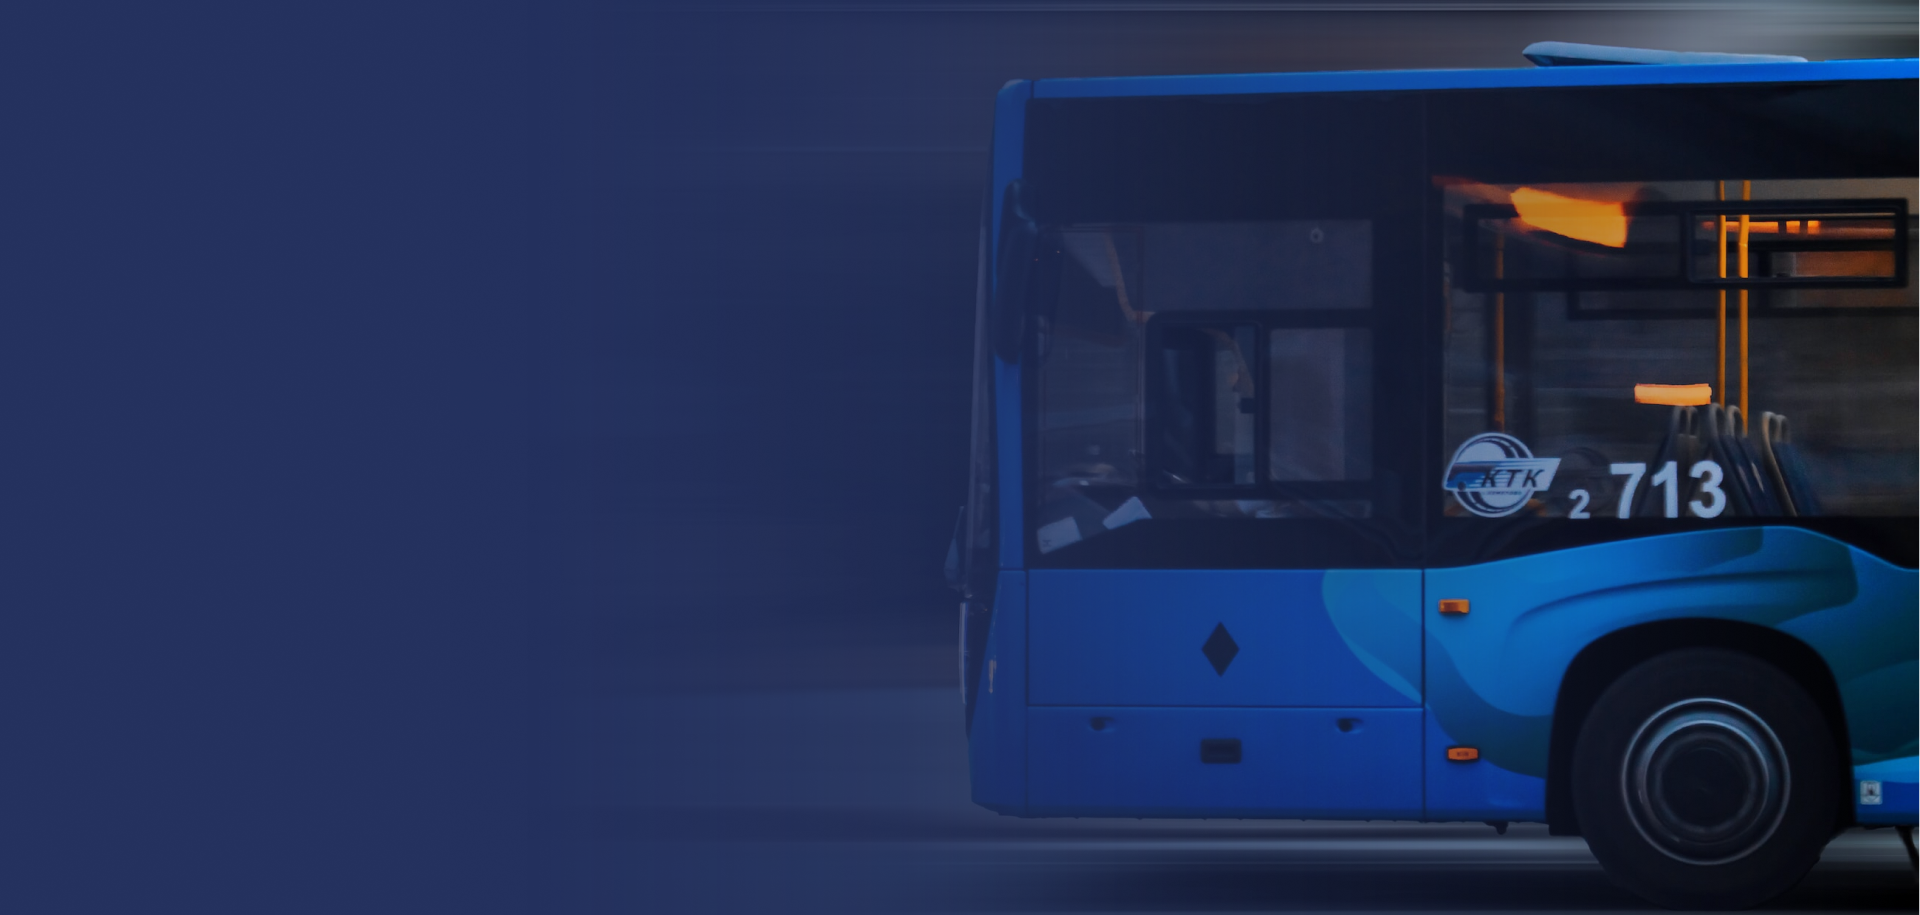
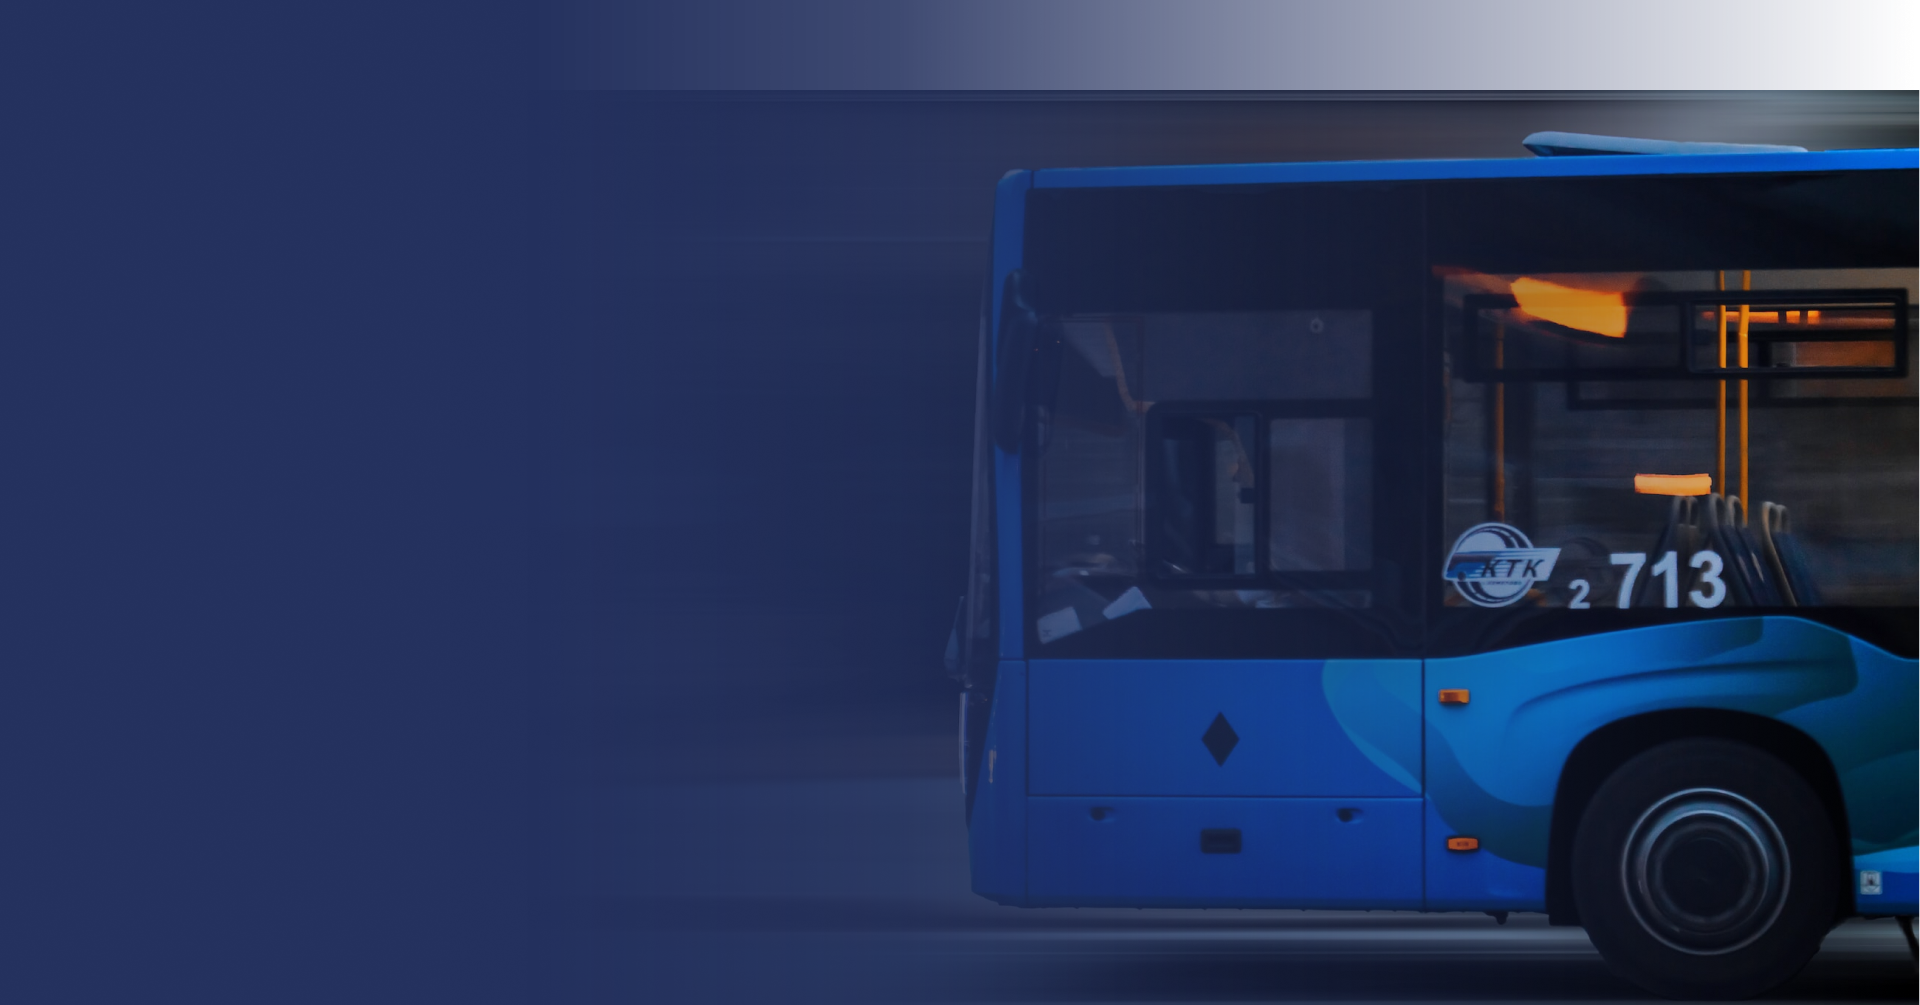
Landing page css and admin login, signup headers

diff --git a/BusSched/public/assets/css/landing.css b/BusSched/public/assets/css/landing.css
@@ -1,0 +1,150 @@
+body{
+    box-sizing: border-box;
+    background-image: url("../images/bg-home-1.png");
+    background-repeat: no-repeat;
+    background-position: top;
+    background-size: cover;
+    background-position: 0px 90px;
+
+    font-family: 'Outfit';
+    font-size: 20px;
+    margin: 0;
+}
+
+
+h1{
+    color: aliceblue;
+    margin-bottom: 20px;
+}
+
+label{
+    color: aliceblue;
+}
+
+input[type="text"]{
+    width: 100%;
+    height: 71px;
+    font-size: 20px;
+    padding-left: 20px;
+    border-radius: 5px;
+}
+
+input[type="text"]::placeholder{
+    font-family: Outfit;
+    font-size: 20px;
+    color: #7C839E;
+}
+/* input[type="button"]{
+    float: right;
+    width: 120px;
+    background-color: #FD6002;
+    border: none;
+} */
+
+li{
+    list-style: none;
+}
+
+a{
+    text-decoration: none;
+}
+button:hover {opacity: 0.6}
+
+.button-orange {
+    background-color: #f4511e;
+    border: none;
+    border-radius: 5px;
+    color: white;
+    padding: 16px 32px;
+    text-align: center;
+    font-family: 'Outfit';
+    font-size: 16px;
+    font-weight: bold;
+    margin-top: 10px;
+    margin: 0px;
+    opacity: 1;
+    transition: 0.3s;
+    display: inline-block;
+    text-decoration: none;
+    width: 100%;
+}
+
+.find_bus{
+    position: absolute;
+    top: 91px;
+    display: flex;
+    flex-direction: column;
+    padding: 100px;
+    float: left;
+}
+
+.find_bus input, h1{
+    padding: 10px;
+    margin-bottom: 15px;
+    width: 100%;
+}
+
+/* nav bar */
+.navbar {
+    display: flex;
+    align-items: center;
+    justify-content: space-between;
+    padding-left: 20px;
+    padding-right: 20px;
+    background-color: black;
+    color: #fff;
+    height: 90px;    
+}
+
+.nav-links a {
+    color: #fff;
+}
+
+.menu {
+    display: flex;
+    gap: 1em;
+    font-size: 18px;
+}
+    
+.menu li {
+    padding: 5px 14px;
+}
+
+.logo_white{
+    color: white;
+    text-decoration: none;
+}
+
+
+/* grid */
+.grid-container {
+    display: grid;
+    justify-content: center;
+
+    /* justify-items: center; */
+    align-items: center;
+    /* justify-content: space-around; */
+    align-content: center;
+    /* height: inherit; */
+    grid-template-columns: 1fr 2fr;
+    grid-auto-rows: minmax(150px, auto);
+    grid-gap: 10px;
+    /* background-color: #2196F3; */
+    padding: 10px;
+    margin: 100px;
+    margin-left: 190px;
+    margin-right: 190px;
+
+    /* grid-template-areas: 
+        "header header"
+        "main main"; */
+}
+
+/* .grid-item-1{
+    grid-column: span 2; */
+    /* grid-column: 1 / -1; */
+    /* grid-area: header; */
+    /* grid-column-start: 1; */
+    /* grid-column-end: 3; */
+    /* grid-column-end: -1; */
+/* } */

diff --git a/BusSched/public/assets/css/style.css b/BusSched/public/assets/css/style.css
@@ -31,7 +31,7 @@ body{
     align-items: center;
 }
 
-#logo_white{
+.logo_white{
     color: white;
     text-decoration: none;
 }
@@ -105,13 +105,15 @@ button:hover {opacity: 0.6}
     margin-top: 5px;
 }
 
-
+/* nav bar */
 .navbar {
     display: flex;
     align-items: center;
     justify-content: space-between;
     padding-left: 20px;
     padding-right: 20px;
+    padding-top: 0px;
+    padding-bottom: 0px;
     background-color: black;
     color: #fff;
     height: 90px;    
@@ -129,4 +131,13 @@ button:hover {opacity: 0.6}
     
 .menu li {
     padding: 5px 14px;
+}
+
+/* grid */
+.grid-container {
+    display: grid;
+    grid-template-columns: 2fr 1fr;
+    grid-gap: 10px;
+    background-color: #2196F3;
+    padding: 10px;
 }

diff --git a/BusSched/app/views/home.view.php b/BusSched/app/views/home.view.php
@@ -5,13 +5,13 @@
     <meta http-equiv="X-UA-Compatible" content="IE=edge">
     <meta name="viewport" content="width=device-width, initial-scale=1.0">
     
-    <link rel="stylesheet" href="<?=ROOT?>/assets/css/style.css">
+    <link rel="stylesheet" href="<?=ROOT?>/assets/css/landing.css">
     <script src="https://secure.exportkit.com/cdn/js/ek_googlefonts.js?v=6"></script>
     <title>Home page view</title>
 </head>
 <body>
     <nav class="navbar">
-    <div><h2><a href="<?=ROOT?>/home" id="logo_white">BusSched</a></h2></div>
+    <div><h2><a href="<?=ROOT?>/home" class="logo_white">BusSched</a></h2></div>
     
     <!-- NAVIGATION MENU -->
     <ul class="nav-links">
@@ -45,20 +45,42 @@
     
     <li class="button-orange"><a href="<?=ROOT?>/login">Login</a></li>
     </nav>
-
-    <?php
-        echo "Not logged in.";
-    ?>
-    
+<!--     
     <br><br><a href="<?=ROOT?>/login">ADMIN - LOGIN</a>
     <br><a href="<?=ROOT?>/signup">PASSENGER - SIGNUP</a>
     <br><br><a href="<?=ROOT?>/ownerlogin">BUS OWNER - LOGIN</a>
-    <br><a href="<?=ROOT?>/ownersignup">BUS OWNER - SIGNUP</a>
+    <br><a href="<?=ROOT?>/ownersignup">BUS OWNER - SIGNUP</a> -->
 
     <?php } ?>
-    </div>
+    <!-- </div> -->
 
     </h2>
-    
+    <div class="landing-bg">
+    <div class="grid-container">
+        <div class="grid-item grid-item-1">
+            <h1 style="padding: 0px;">Find a Bus</h1><br>
+            <label for="from">From</label>
+            <input type="text" name="from" id="from" placeholder="Choose city"><br><br> 
+            <label for="to">To</label>
+            <input type="text" name="to" id="to" placeholder="Choose city"><br><br><br>
+            <button id="btn" class="button-orange" onclick="#" style="width: 140px; align:right;">Find</button>
+        </div>
+        <div class="grid-item grid-item-2">
+            <!-- <h1>grid item</h1> -->
+        </div>
+    </div>
+    </div>
+    <!-- <div class="find_bus">
+        <h1>Find a Bus</h1>
+        <label for="from">From</label>
+        <input type="text" name="from" id="from" placeholder="Choose city">
+        <label for="to">To</label>
+        <input type="text" name="to" id="to" placeholder="Choose city">
+        <button id="btn" class="button-orange" onclick="#">Find</button>
+    </div> -->
+    <div>
+    <!-- <h3>Our Services</h3>
+    <h1>What we can do for you</h1> -->
+    </div>
 </body>
 </html>

diff --git a/BusSched/app/views/login.view.php b/BusSched/app/views/login.view.php
@@ -17,12 +17,27 @@
   <link href="<?=ROOT?>/assets/css/style.css" rel="stylesheet">
 </head>
 <body>
-  
-  <h2><a href="<?=ROOT?>" id="logo_white">BusSched</a></h2>
+  <nav class="navbar">
+    <div><h2><a href="<?=ROOT?>/home" class="logo_white">BusSched</a></h2></div>
+    
+    <!-- NAVIGATION MENU -->
+    <ul class="nav-links">
+    <div class="menu">
+    
+    
+    <li class="button-orange"><a href="<?=ROOT?>/login">Login</a></li>
+    </nav>
+    <br>
+    <br>
+    <br>
+    <br>
+    <br>
 
   <h3 class="center">Admin</h3>
+  
   <h1 style="text-align:center" class="center">Login</h1><br>
-
+  
+  <br>
   <!-- LOGIN FORM FOR ALL USERS -->
   <form method="post">    
   <div id="form_bg" class="center">    

diff --git a/BusSched/app/views/signup.view.php b/BusSched/app/views/signup.view.php
@@ -10,10 +10,26 @@
   <link rel="stylesheet" href="<?=ROOT?>/assets/css/style.css">
 </head>
 <body>
-  <h2><a href="<?=ROOT?>" id="logo_white">BusSched</a></h2>
+  
+<nav class="navbar">
+    <div><h2><a href="<?=ROOT?>/home" class="logo_white">BusSched</a></h2></div>
+    
+    <!-- NAVIGATION MENU -->
+    <ul class="nav-links">
+    <div class="menu">
+    
+    
+    <li class="button-orange"><a href="<?=ROOT?>/login">Login</a></li>
+    </nav>
+    <br>
+    <br>
+    <br>
+    <br>
   
     <h3>Passenger</h3>
     <h1 style="text-align:center">Create Account</h1>
+    
+    <br>
 
 <!-- SIGN UP FORM - PASSENGER -->
   <form method="post">
